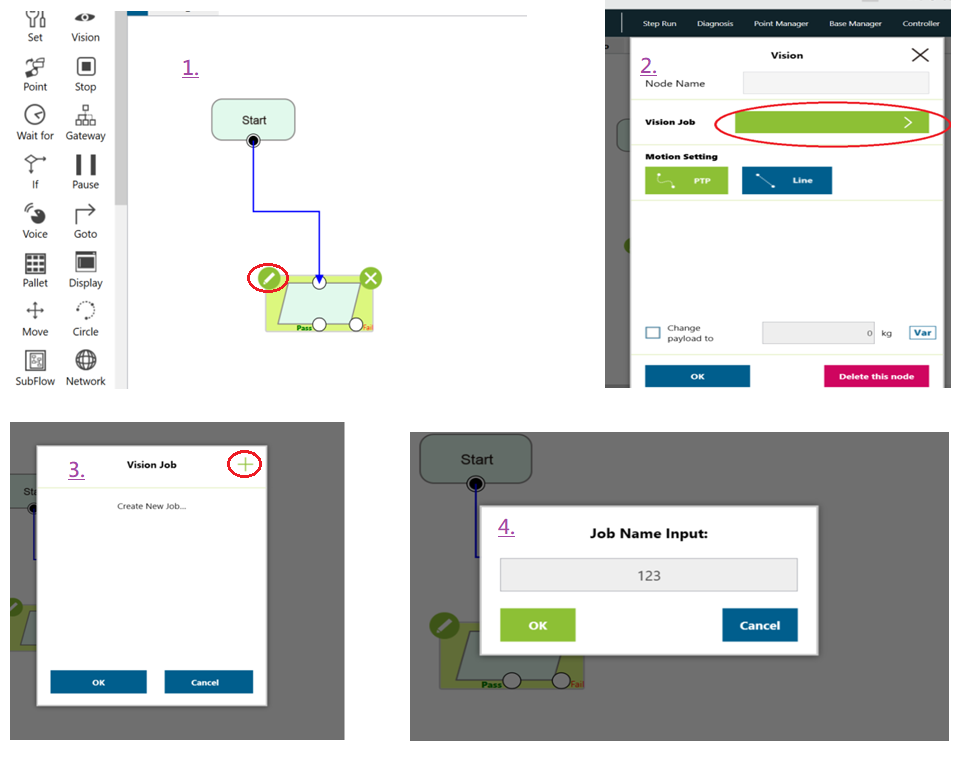
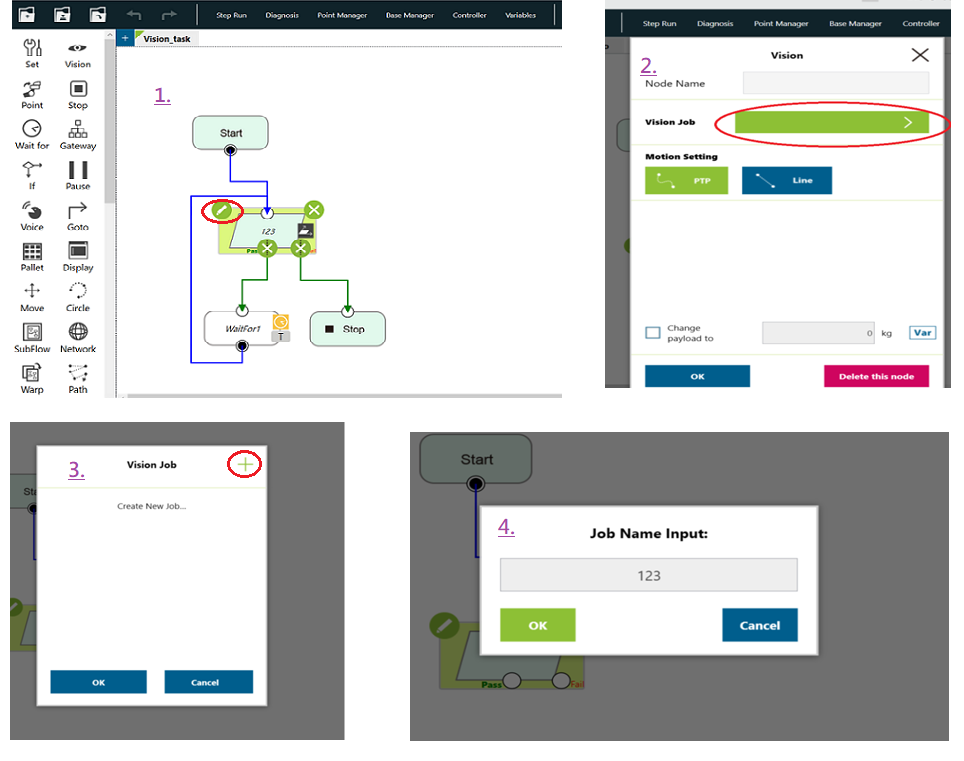
1.5.5 update control node figures .

Changed region(s): [[0.0, 0.0, 0.5913, 0.5138], [0.1867, 0.1209, 0.4046, 0.4836], [0.1245, 0.5138, 0.5913, 0.544]]

diff --git a/README.md b/README.md
@@ -226,7 +226,7 @@ Enable the `Data Table Setting` item and check the following boxes as item prede
 > ![wrong_port](figures/wrong_port.png)
 > 7. Enter ``<user_pc_ip_address>:6189/api/DET`` in the URL blank text and type arbitrary letters in the __Value__ blank text; the __Key__ will be generated automatically.
 > ![add_model](figures/add_model.png)
-> 8. Finally, assign a name to the model in  the __Model name__ blank text and click the __Save__ button.
+> 8. Assign a name to the model in  the __Model name__ blank text and click the __Save__ button.
 > ![save_model](figures/save_model.png)
 >
 > 9. Press the Play/Pause Button on the Robot Stick to start running this _Vision task_ project.
